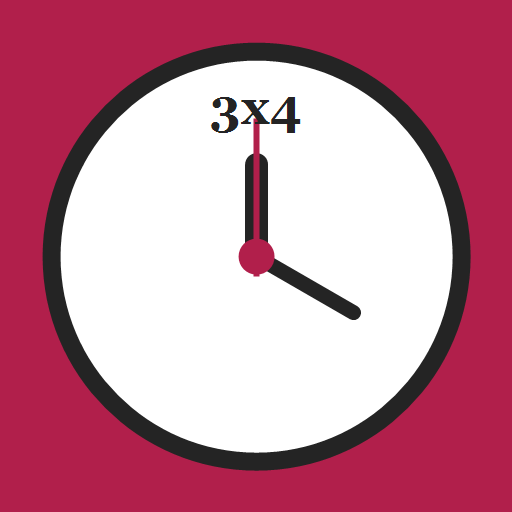
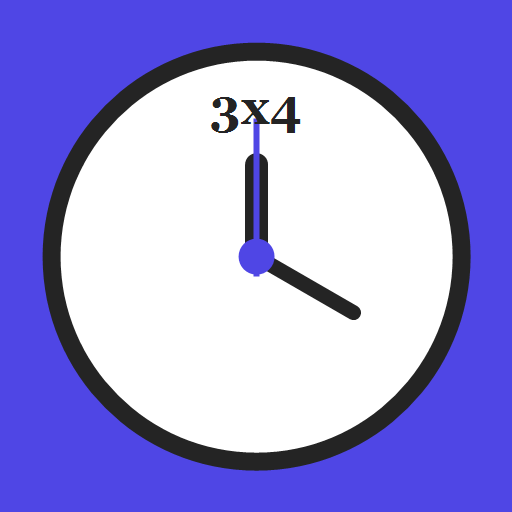
Replace rose accents with indigo
Copilot-Session: e59deea5-ff75-40a5-a9a2-bc523befd40c

diff --git a/app.js b/app.js
@@ -19,10 +19,10 @@ const defaults = {
   handStyle: "round",
   hourColor: "#242424",
   minuteColor: "#242424",
-  secondColor: "#b11f4b",
+  secondColor: "#4f46e5",
   handWidth: 14,
   smoothSeconds: true,
-  pendulumColor: "#b11f4b",
+  pendulumColor: "#4f46e5",
   pendulumLength: 110,
   pendulumBob: "oval",
   difficulty: "mixed",
@@ -151,9 +151,26 @@ function createClock(name, timeZone = LOCAL_TIME_ZONE, settings = {}) {
     id: createId(),
     name,
     timeZone,
-    settings: { ...defaults, ...settings },
+    settings: normalizeSettings(settings),
     equations: []
   };
+}
+
+function normalizeSettings(settings = {}) {
+  const normalized = { ...defaults, ...settings };
+  if (
+    typeof normalized.secondColor === "string" &&
+    normalized.secondColor.toLowerCase() === "#b11f4b"
+  ) {
+    normalized.secondColor = defaults.secondColor;
+  }
+  if (
+    typeof normalized.pendulumColor === "string" &&
+    normalized.pendulumColor.toLowerCase() === "#b11f4b"
+  ) {
+    normalized.pendulumColor = defaults.pendulumColor;
+  }
+  return normalized;
 }
 
 function loadClocks() {
@@ -164,7 +181,7 @@ function loadClocks() {
         id: clock.id || createId(),
         name: clock.name || `Clock ${index + 1}`,
         timeZone: clock.timeZone || LOCAL_TIME_ZONE,
-        settings: { ...defaults, ...clock.settings },
+        settings: normalizeSettings(clock.settings),
         equations: []
       }));
     }
@@ -926,5 +943,6 @@ if ("serviceWorker" in navigator) {
 
 populateTimeZones();
 applyThemePreference(themePreference);
+saveClocks();
 renderAllClocks();
 requestAnimationFrame(updateClocks);

diff --git a/styles.css b/styles.css
@@ -9,20 +9,20 @@
   --cp-text: #242424;
   --cp-text-muted: #5c5c5c;
   --cp-text-soft: #6f6f6f;
-  --cp-accent: #b11f4b;
-  --cp-accent-hover: #9a1a41;
-  --cp-accent-soft: rgba(177, 31, 75, 0.08);
+  --cp-accent: #4f46e5;
+  --cp-accent-hover: #4338ca;
+  --cp-accent-soft: rgba(79, 70, 229, 0.08);
   --cp-accent-fg: #ffffff;
   --cp-success: #16a34a;
   --cp-danger: #dc2626;
   --cp-warning: #f59e0b;
-  --cp-link: #0078d4;
+  --cp-link: #4338ca;
   --cp-shadow: 0 18px 48px rgba(0, 0, 0, 0.12);
   --cp-overlay: rgba(255, 255, 255, 0.8);
   --cp-panel: rgba(255, 255, 255, 0.86);
   --cp-panel-strong: rgba(255, 255, 255, 0.96);
   --cp-sheen: rgba(255, 255, 255, 0.55);
-  --cp-highlight: rgba(177, 31, 75, 0.12);
+  --cp-highlight: rgba(79, 70, 229, 0.12);
 }
 html[data-theme="dark"] {
   color-scheme: dark;
@@ -35,20 +35,20 @@ html[data-theme="dark"] {
   --cp-text: #dedede;
   --cp-text-muted: #919191;
   --cp-text-soft: #b0b0b0;
-  --cp-accent: #fd8ea1;
-  --cp-accent-hover: #fb7b91;
-  --cp-accent-soft: rgba(253, 142, 161, 0.14);
+  --cp-accent: #a5b4fc;
+  --cp-accent-hover: #818cf8;
+  --cp-accent-soft: rgba(165, 180, 252, 0.14);
   --cp-accent-fg: #1a1a1a;
   --cp-success: #4ade80;
   --cp-danger: #f87171;
   --cp-warning: #fbbf24;
-  --cp-link: #4da6ff;
+  --cp-link: #a5b4fc;
   --cp-shadow: 0 18px 48px rgba(0, 0, 0, 0.32);
   --cp-overlay: rgba(41, 41, 41, 0.88);
   --cp-panel: rgba(41, 41, 41, 0.72);
   --cp-panel-strong: rgba(41, 41, 41, 0.96);
   --cp-sheen: rgba(255, 255, 255, 0.04);
-  --cp-highlight: rgba(253, 142, 161, 0.12);
+  --cp-highlight: rgba(165, 180, 252, 0.12);
 }
 
 * {

diff --git a/sw.js b/sw.js
@@ -1,4 +1,4 @@
-const CACHE_NAME = "equation-clock-v15";
+const CACHE_NAME = "equation-clock-v16";
 const APP_SHELL = [
   "./",
   "./index.html",

diff --git a/README.md b/README.md
@@ -12,6 +12,7 @@ Customization includes:
 - Picture position, zoom, opacity, and readability-overlay controls
 - Desktop hover actions and a touch-friendly three-dot menu for new equations, customization, and removal
 - App-wide Light, Dark, and System appearance modes
+- Indigo interface accents and matching default second-hand and pendulum colors
 
 ## Run locally
 
